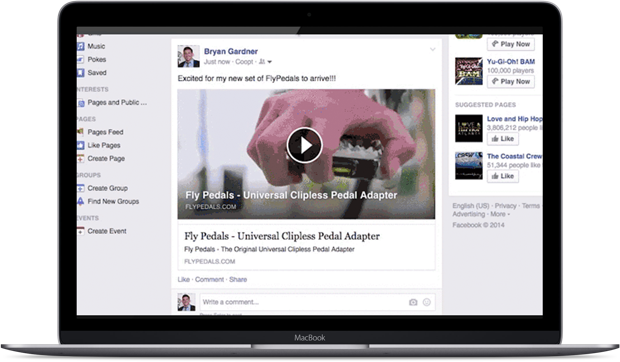
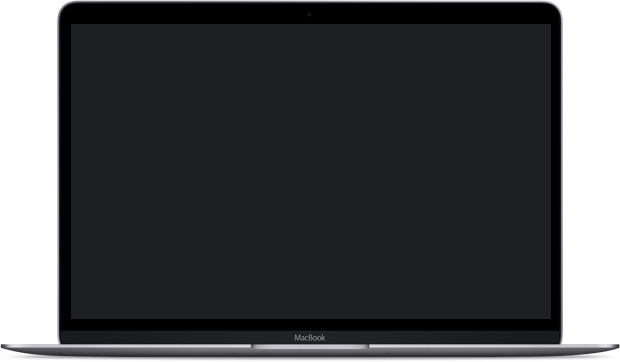
gif

diff --git a/tmp/stylesheets/style.css b/tmp/stylesheets/style.css
@@ -835,3 +835,16 @@ footer.main-footer img.footer-logo {
 /* line 19, /Users/alauderdale/Dropbox/clients/SSILogic/COOPT/SITES/coopt_frontend/source/stylesheets/elements/_home.scss */
 .home-quote-section blockquote {
   margin-bottom: 48px; }
+
+/* line 27, /Users/alauderdale/Dropbox/clients/SSILogic/COOPT/SITES/coopt_frontend/source/stylesheets/elements/_home.scss */
+.macbook-img {
+  margin-bottom: -321px; }
+  @media (max-width: 767px) {
+    /* line 27, /Users/alauderdale/Dropbox/clients/SSILogic/COOPT/SITES/coopt_frontend/source/stylesheets/elements/_home.scss */
+    .macbook-img {
+      display: none; } }
+
+@media (max-width: 767px) {
+  /* line 35, /Users/alauderdale/Dropbox/clients/SSILogic/COOPT/SITES/coopt_frontend/source/stylesheets/elements/_home.scss */
+  .howto-gif {
+    border: 4px solid rgba(0, 0, 0, 0.2); } }

diff --git a/tmp/index.html b/tmp/index.html
@@ -94,7 +94,8 @@
                 </h3>
                 <div class='divider-default'></div>
                 <div class='text-center half-margin-top'>
-                  <img class='img-responsive margin-auto' src='images/macbook_1.png'>
+                  <img class='img-responsive margin-auto macbook-img' src='images/macbook_1.png'>
+                  <img class='img-responsive margin-auto howto-gif' src='images/howto.gif' width='480'>
                 </div>
               </div>
               <div class='col-md-2'></div>
